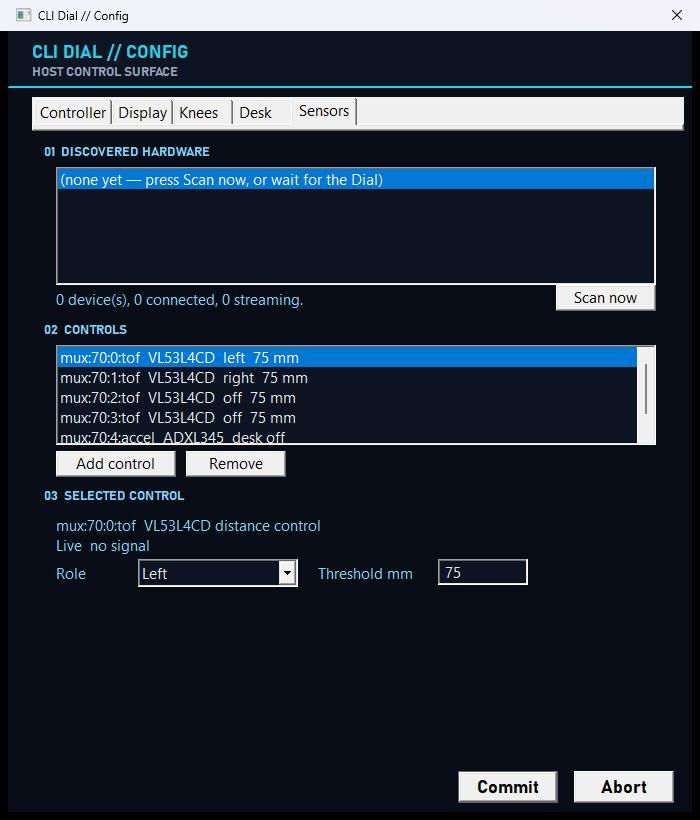
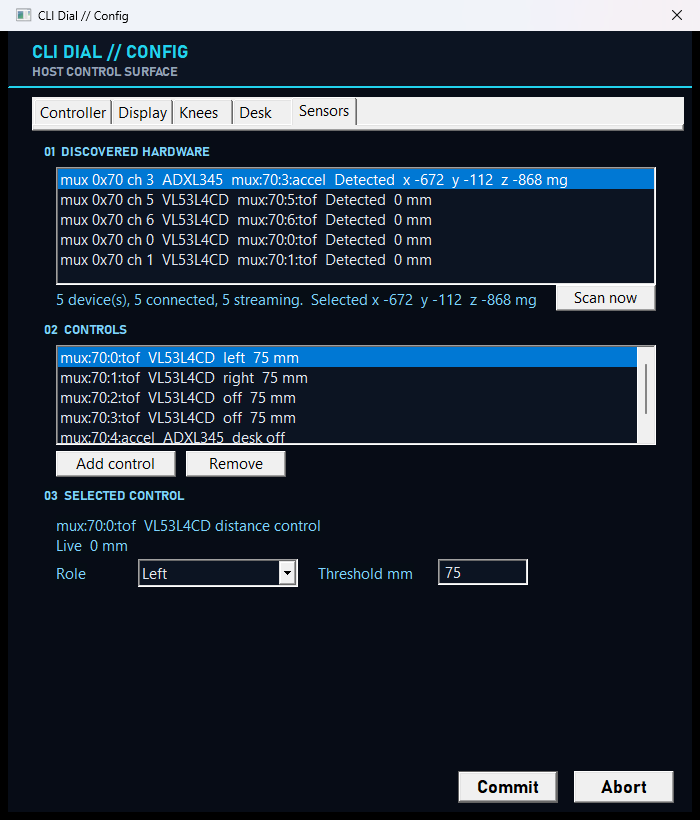
fix: scan M5Dial Port B so the mux and sensors stream live readings

diff --git a/firmware/src/main.cpp b/firmware/src/main.cpp
@@ -3,7 +3,7 @@
 #include <cstring>
 #include <math.h>
 
-static const char *kFw = "0.6.1";
+static const char *kFw = "0.6.2";
 static const uint32_t kHostTimeoutMs = 3000;
 static const uint32_t kOverlayHoldMs = 2500;
 static const int kDetentPulses = 4;
@@ -53,6 +53,9 @@ static bool scanRequested = true;
 
 static m5::I2C_Class *bus = &M5.Ex_I2C;
 static bool exReady = false;
+static bool pinsLocked = false;
+static uint8_t i2cSda = 2;
+static uint8_t i2cScl = 1;
 
 static bool i2cProbe(uint8_t address) {
   if (bus == &M5.Ex_I2C && !exReady) {
@@ -273,15 +276,45 @@ static bool initTofSlot(int idx) {
   tofWr8(0x0008, 0x09);
   tofWr8(0x000B, 0x00);
   tofWr16(0x0024, 0x0500);
+  uint8_t zero4[4] = {0, 0, 0, 0};
+  tofWr(0x006C, zero4, 4);
   return tofWr8(0x0087, 0x21);
 }
 
+static bool busHasMuxOrSensor() {
+  for (uint8_t addr = 0x70; addr <= 0x77; ++addr) {
+    if (bus->scanID(addr, kI2CHz)) {
+      return true;
+    }
+  }
+  return bus->scanID(kTofAddr, kI2CHz) || bus->scanID(kAccelAddr, kI2CHz);
+}
+
+static bool tryPins(int sda, int scl) {
+  M5.Ex_I2C.release();
+  if (!M5.Ex_I2C.begin((i2c_port_t)0, sda, scl)) {
+    exReady = false;
+    return false;
+  }
+  bus = &M5.Ex_I2C;
+  exReady = true;
+  i2cSda = (uint8_t)sda;
+  i2cScl = (uint8_t)scl;
+  return busHasMuxOrSensor();
+}
+
 static void pickBus() {
-  if (exReady) {
+  if (pinsLocked) {
     return;
   }
-  exReady = M5.Ex_I2C.begin();
-  bus = &M5.Ex_I2C;
+  // Port B first: Grove yellow is G2, white is G1 on M5Dial.
+  if (tryPins(2, 1) || tryPins(1, 2) || tryPins(13, 15)) {
+    pinsLocked = true;
+    Serial.printf("{\"v\":1,\"t\":\"i2c\",\"sda\":%u,\"scl\":%u}\n", i2cSda, i2cScl);
+    return;
+  }
+  tryPins(2, 1);
+  Serial.printf("{\"v\":1,\"t\":\"i2c\",\"sda\":%u,\"scl\":%u}\n", i2cSda, i2cScl);
 }
 
 static void discoverMuxes() {
@@ -394,14 +427,14 @@ static void pollTof(uint32_t now) {
       setSlotOk(i, false);
       continue;
     }
-    if (!tofDataReady()) {
-      continue;
-    }
-    uint8_t rangeStatus = 0;
+    delay(2);
     uint16_t mm = 0;
-    if (!tofRd8(0x0089, &rangeStatus) || !tofRd16(0x0096, &mm) || !tofWr8(0x0086, 0x01)) {
+    if (!tofRd16(0x0096, &mm)) {
       sensorFailed(i);
       continue;
+    }
+    if (tofDataReady()) {
+      tofWr8(0x0086, 0x01);
     }
     slots[i].failures = 0;
     Serial.printf("{\"v\":1,\"t\":\"tof\",\"id\":\"%s\",\"mux\":%u,\"ch\":%u,\"mm\":%u}\n",
@@ -760,7 +793,6 @@ void setup() {
     delay(10);
   }
   M5Dial.Display.setRotation(0);
-  M5.Ex_I2C.begin();
   encPos = M5Dial.Encoder.read();
   sendHello();
   lastHostMs = 0;

diff --git a/README.md b/README.md
@@ -167,7 +167,7 @@ flowchart TB
 
 1. Disconnect USB power before changing cables.
 2. Connect M5Dial Port A to the PCA9548 upstream connector.
-3. Connect VL53L4CD and ADXL345 boards to any PCA9548 channel, or to the root bus.
+3. Connect VL53L4CD and ADXL345 boards to any PCA9548 channel, or to the root bus. Plug the mux into M5Dial Port B (GPIO2 SDA, GPIO1 SCL) or Port A (GPIO13 SDA, GPIO15 SCL). The firmware tries Port B first.
 4. Add more PCA9548 boards at `0x71`-`0x77` if you need more than eight channels.
 5. Check the SDA, SCL, power, and ground labels on each board. Do not rely on cable color alone.
 6. Reconnect USB. The firmware scans muxes, channels, and the root bus automatically.
